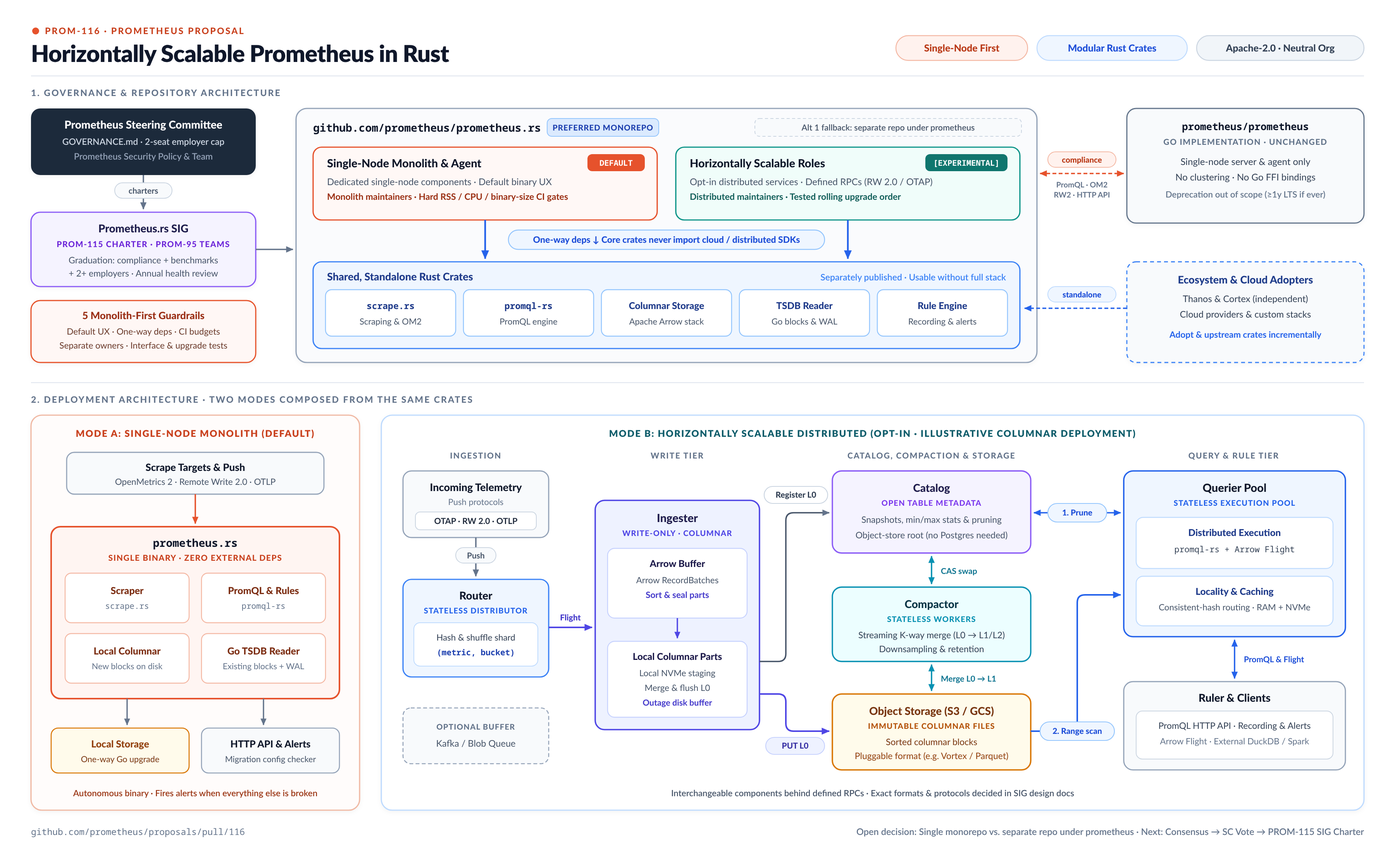
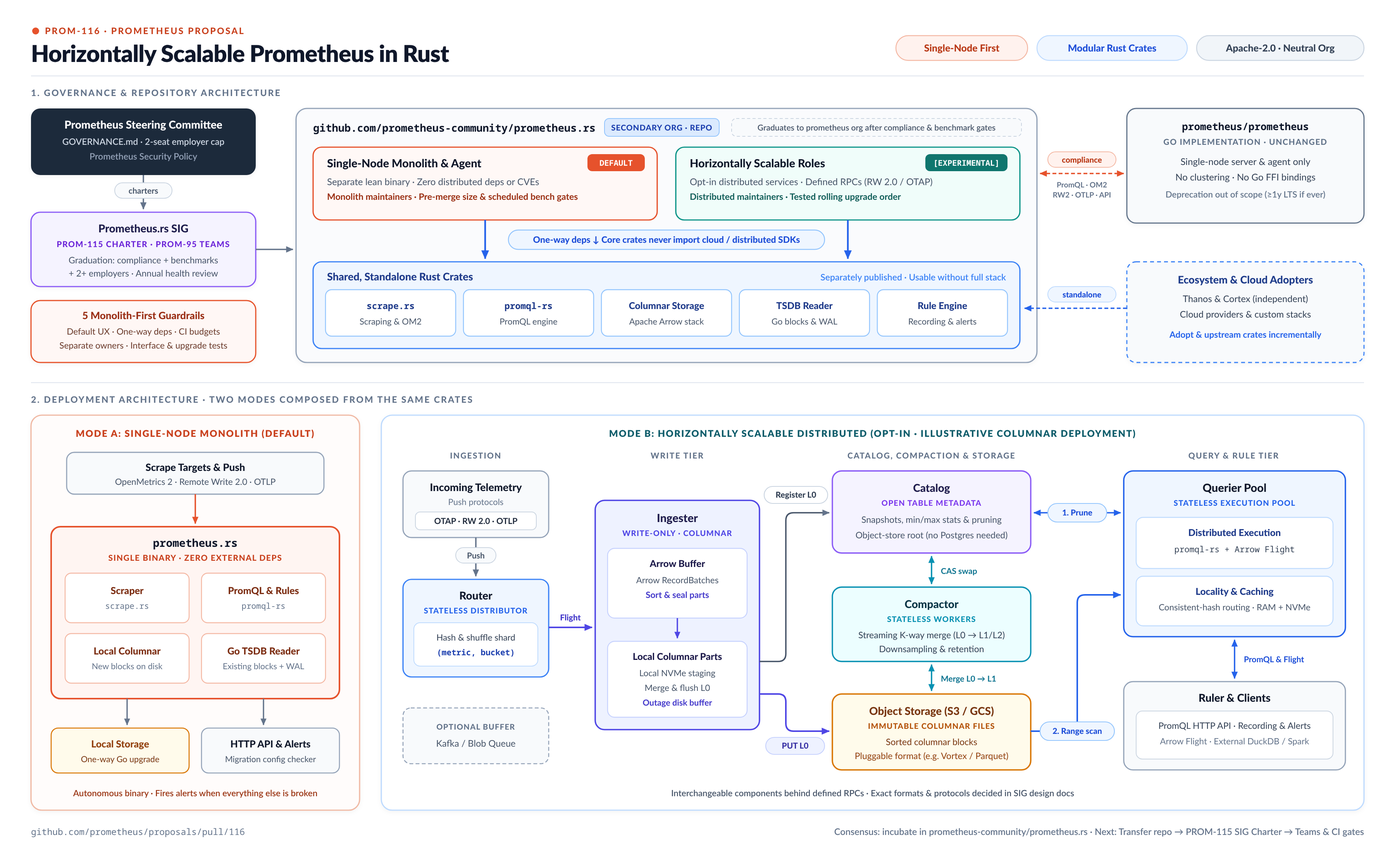
proposal: PROM-116: update destination to prometheus-community/prometheus.rs per DevSummit consensus

diff --git a/proposals/0116-horizontally-scalable-prometheus.md b/proposals/0116-horizontally-scalable-prometheus.md
@@ -21,7 +21,7 @@
   * [Prometheus Governance](https://github.com/prometheus/governance/blob/main/GOVERNANCE.md)
   * [Prometheus Community Roles](https://github.com/prometheus/governance/blob/main/ROLES.md)
 
-> TL;DR: Build the next generation of Prometheus in Rust from modular, reusable crates that compose both a drop-in single-node Prometheus replacement and horizontally scalable, distributed components under the Prometheus organization. Contributors from Prometheus, Thanos, Cortex, and (potentially) Mimir are rebuilding metrics storage and querying on an Apache Arrow columnar stack. Rather than splitting that work across competing organizations or inventing a fourth project, we propose expanding Prometheus scope to include horizontally scalable components under the Prometheus.rs SIG, with structural safeguards that keep single-node Prometheus a first-class priority. Depending on maintainer feedback, this work can live directly in the new Rust Prometheus repository as modular components or in a separate repository under the `prometheus` organization.
+> TL;DR: Build the next generation of Prometheus in Rust from modular, reusable crates that compose both a drop-in single-node Prometheus replacement and horizontally scalable, distributed components under Prometheus governance. Contributors from Prometheus, Thanos, Cortex, and (potentially) Mimir are rebuilding metrics storage and querying on an Apache Arrow columnar stack. Rather than splitting that work across competing organizations or inventing a fourth project, we allow Rust and columnar experiments with horizontally scalable scope in the secondary `prometheus-community` organization at [prometheus-community/prometheus.rs](https://github.com/prometheus-community/prometheus.rs), coordinated by the Prometheus.rs SIG, with structural safeguards that keep single-node Prometheus a first-class priority and protect primary `prometheus` organization stability expectations until graduation criteria are met.
 
 ![PROM-116 governance, repository, and deployment architecture overview](../assets/0116-horizontally-scalable-prometheus/architecture-overview.png)
 
@@ -36,9 +36,9 @@ Historically, Prometheus maintainers resisted bringing Thanos or Cortex style re
 That risk is real and we should not wave it away. Prometheus is still a single-binary effort first, and if the interests of single-node Prometheus and horizontally scalable Prometheus ever conflict, single-node Prometheus comes first. At the same time, the past decade has shown how costly ecosystem fragmentation is across separate projects. Four things have changed since that original scope boundary was formed:
 
 1. We can protect monolith priority with structure instead of an informal scope ban. Refreshed Prometheus governance gives us explicit SIG charters in [PROM-115](https://github.com/prometheus/proposals/pull/115), per-repository maintainer teams in [PROM-95](https://github.com/prometheus/proposals/blob/main/proposals/0095-teams-and-org-permissions.md), and clear contributor roles in [ROLES.md](https://github.com/prometheus/governance/blob/main/ROLES.md). We can back those up with hard benchmark gates, clean crate boundaries, and dedicated monolith maintainers.
-2. The `github.com/prometheus` organization stopped being only the monolith server binary a long time ago. Today the organization maintains client SDKs in six languages, exporters, Alertmanager, `promtool`, `--agent` mode, [prometheus/prometheus-mcp](https://github.com/prometheus/prometheus-mcp), protocol specifications, and experimental Rust projects in [prometheus/scrape.rs](https://github.com/prometheus/scrape.rs) and [prometheus/prometheus.rs](https://github.com/prometheus/prometheus.rs).
+2. Prometheus governance already spans far more than the single-node Go server binary. Across `github.com/prometheus` and `github.com/prometheus-community`, the project maintains client SDKs in six languages, exporters, Alertmanager, `promtool`, `--agent` mode, [prometheus/prometheus-mcp](https://github.com/prometheus/prometheus-mcp), protocol specifications, and experimental Rust projects such as [prometheus/scrape.rs](https://github.com/prometheus/scrape.rs) and [prometheus-community/promql-rs](https://github.com/prometheus-community/promql-rs).
 3. `prometheus/prometheus` already absorbs complexity for downstream horizontally scalable backends. The codebase carries methods and options that exist solely for Mimir, Cortex, or Thanos, such as [`DB.CompactSelectedSeries`](https://github.com/prometheus/prometheus/blob/2b311b9762bb5834a17374fcf45a8e5b2043293f/tsdb/db.go#L1940-L1963), [`LeveledCompactorOptions.EnableOverlappingCompaction`](https://github.com/prometheus/prometheus/blob/2b311b9762bb5834a17374fcf45a8e5b2043293f/tsdb/compact.go#L183-L185), [`AppendOptions.MetricFamilyName`](https://github.com/prometheus/prometheus/blob/2b311b9762bb5834a17374fcf45a8e5b2043293f/storage/interface_append.go#L51-L60), and the [`--storage.tsdb.delay-compact-file.path`](https://github.com/prometheus/prometheus/blob/2b311b9762bb5834a17374fcf45a8e5b2043293f/cmd/prometheus/main.go#L575-L576) flag. It also tracks scale limits above 100M series like the 64 GiB index cap in [#5868](https://github.com/prometheus/prometheus/issues/5868), and [`AGENTS.md`](https://github.com/prometheus/prometheus/blob/2b311b9762bb5834a17374fcf45a8e5b2043293f/AGENTS.md#L94-L99) explicitly instructs contributors to check Cortex, Thanos, and Mimir before changing exported Go APIs. We already pay the maintenance tax for distributed backends downstream without getting a shared architecture in return.
-4. In the AI era, reusable crates with clear boundaries matter more than glue code. Teams and coding agents can wire up custom binaries or integrations cheaply now, while well-scoped libraries with strict interfaces and thorough tests remain the hard part. Clear crate boundaries also give humans and coding agents small, isolated units to change and review safely. Focusing the [prometheus/prometheus.rs](https://github.com/prometheus/prometheus.rs) monorepo on reusable crates lets monolith and distributed modes share those core libraries without tangling their concerns.
+4. In the AI era, reusable crates with clear boundaries matter more than glue code. Teams and coding agents can wire up custom binaries or integrations cheaply now, while well-scoped libraries with strict interfaces and thorough tests remain the hard part. Clear crate boundaries also give humans and coding agents small, isolated units to change and review safely. Focusing the [prometheus-community/prometheus.rs](https://github.com/prometheus-community/prometheus.rs) monorepo on reusable crates lets monolith and distributed modes share those core libraries without tangling their concerns.
 
 ### Pitfalls of the current solution
 
@@ -49,9 +49,9 @@ That risk is real and we should not wave it away. Prometheus is still a single-b
 ## Goals
 
 * Build modular, reusable Rust crates that compose both a drop-in single-node Prometheus replacement and horizontally scalable, distributed components.
-* Officially bring horizontally scalable, distributed Prometheus into the scope of the Prometheus organization, giving contributors from Prometheus, Thanos, Cortex, and (potentially) Mimir one vendor-neutral home.
+* Officially bring horizontally scalable, distributed Prometheus experiments into Prometheus governance under the secondary `prometheus-community` organization ([prometheus-community/prometheus.rs](https://github.com/prometheus-community/prometheus.rs)), giving contributors from Prometheus, Thanos, Cortex, and (potentially) Mimir one vendor-neutral home.
 * Keep core Rust crates standalone, separately published, and usable on their own so teams running different backends can adopt pieces incrementally and contribute fixes back without adopting the full stack or rewriting Go Prometheus upfront.
-* Put concrete organizational and technical safeguards in place so single-node monolith Prometheus remains a first-class priority.
+* Put concrete organizational and technical safeguards in place so single-node monolith Prometheus remains a first-class priority, and protect primary `prometheus` organization stability expectations while Rust components incubate.
 
 ### Audience
 
@@ -69,7 +69,7 @@ Prometheus maintainers, Steering Committee members, Prometheus Members, and cont
 
 ### Scope expansion
 
-This proposal updates the scope of the Prometheus project under [prometheus/governance](https://github.com/prometheus/governance) to include horizontally scalable, distributed Prometheus as an official area of work, alongside single-node Prometheus, agent mode, Alertmanager, exporters, SDKs, and specifications.
+This proposal updates the scope of the Prometheus project under [prometheus/governance](https://github.com/prometheus/governance) to allow Rust and columnar experiments with horizontally scalable, distributed Prometheus scope under the secondary `prometheus-community` organization ([prometheus-community/prometheus.rs](https://github.com/prometheus-community/prometheus.rs)), alongside single-node Prometheus, agent mode, Alertmanager, exporters, SDKs, and specifications.
 
 Go `prometheus/prometheus` does not change its scope. New horizontally scalable work targets the experimental Rust and columnar ecosystem being developed in the Prometheus.rs SIG.
 
@@ -78,21 +78,23 @@ Go `prometheus/prometheus` does not change its scope. New horizontally scalable 
 The work operates under existing Prometheus governance rules in [GOVERNANCE.md](https://github.com/prometheus/governance/blob/main/GOVERNANCE.md) and [ROLES.md](https://github.com/prometheus/governance/blob/main/ROLES.md):
 
 * Once [PROM-115](https://github.com/prometheus/proposals/pull/115) is accepted, the Prometheus.rs SIG submits a formal SIG charter under `prometheus/governance/sigs/` covering shared Rust crates, the Rust monolith effort, and distributed components, with at least two SIG leads and a Steering Committee liaison.
-* Reusable Rust crates with clear boundaries are the primary focus of the [prometheus/prometheus.rs](https://github.com/prometheus/prometheus.rs) monorepo, alongside existing crates like [prometheus/scrape.rs](https://github.com/prometheus/scrape.rs) and [prometheus-community/promql-rs](https://github.com/prometheus-community/promql-rs). Keeping crates small, separately published, and usable on their own across areas like columnar storage and rule evaluation makes them easier for both humans and coding agents to maintain. Teams running different backends can adopt a single crate and contribute bug fixes or tests back without running the rest of the stack.
+* Reusable Rust crates with clear boundaries are the primary focus of the [prometheus-community/prometheus.rs](https://github.com/prometheus-community/prometheus.rs) monorepo, alongside existing crates like [prometheus/scrape.rs](https://github.com/prometheus/scrape.rs) and [prometheus-community/promql-rs](https://github.com/prometheus-community/promql-rs). Keeping crates small, separately published, and usable on their own across areas like columnar storage and rule evaluation makes them easier for both humans and coding agents to maintain. Teams running different backends can adopt a single crate and contribute bug fixes or tests back without running the rest of the stack.
 * Each repository follows [PROM-95](https://github.com/prometheus/proposals/blob/main/proposals/0095-teams-and-org-permissions.md) with its own `MAINTAINERS.md` and dedicated GitHub maintainer team.
 * Shared crates and distributed components follow the existing [Prometheus security policy](https://prometheus.io/docs/operating/security/). Vulnerability triage and fixes are owned by the Prometheus.rs SIG and repository maintainers, coordinating disclosure and advisories through the Prometheus security process.
-* New distributed components start clearly labeled as `[EXPERIMENTAL]` and graduate to stable status only after meeting conformance tests, operational benchmarks, and multi-company maintainership requirements.
+* New components start clearly labeled as `[EXPERIMENTAL]` in `prometheus-community/prometheus.rs` and graduate to stable status only after meeting conformance tests, operational benchmarks, and multi-company maintainership requirements.
 
-For repository and binary placement, we ask maintainers to weigh in on two options during review of this proposal:
+Following the November 26, 2026 DevSummit consensus, repository placement works as follows:
 
-1. Preferred option: bring horizontally scalable Prometheus directly into the [prometheus/prometheus.rs](https://github.com/prometheus/prometheus.rs) monorepo. The workspace keeps core functionality in independent, reusable crates and composes them into modular components for single-node Prometheus and opt-in distributed roles such as ingester, querier, compactor, ruler, and catalog. Single-node Prometheus will not be `-role=all` running every distributed service in one process. The monolith instead composes components suited for a single node, which can use separate implementations from the distributed ones while sharing the same core crates. Maintainers decide how many variants to keep. Keeping everything in one monorepo avoids inventing a new brand name, keeps cross-crate changes coordinated during early prototyping, and lets users scale from a single binary to distributed components with one mental model.
-2. Fallback option, detailed in Alternative 1 below: host horizontally scalable Prometheus in a separate repository and binary under the Prometheus organization, incubating in `prometheus-community` first if preferred, while sharing the same Rust crates and SIG.
+* Host the Rust and columnar monorepo in the secondary `prometheus-community` GitHub organization at [prometheus-community/prometheus.rs](https://github.com/prometheus-community/prometheus.rs) by transferring the existing experimental `prometheus/prometheus.rs` repository there.
+* Keep core functionality in independent, reusable crates within the workspace and compose them into modular components for single-node Prometheus and opt-in distributed roles such as ingester, querier, compactor, ruler, and catalog. Single-node Prometheus will not be `-role=all` running every distributed service in one process. The monolith instead composes components suited for a single node, which can use separate implementations from the distributed ones while sharing the same core crates. Maintainers decide how many variants to keep.
+* Incubating in `prometheus-community` avoids attaching primary `prometheus` organization stability guarantees to early experiments and guards against second-system risk, while still giving Prometheus, Thanos, Cortex, and Mimir contributors one neutral monorepo under Prometheus governance to align interfaces during early prototyping.
+* Any future promotion from `prometheus-community` into the primary `prometheus` organization requires meeting the conformance, performance, and multi-company maintainership graduation criteria and reaching a separate community decision.
 
 ### Safeguarding monolith priority
 
-Accepting horizontally scalable Prometheus into the Prometheus organization must not come at the expense of single-node Prometheus users. Whenever the interests of single-node Prometheus and horizontally scalable Prometheus conflict, single-node Prometheus comes first. We back that rule up with five concrete guardrails from day one:
+Accepting horizontally scalable Prometheus into Prometheus governance must not come at the expense of single-node Prometheus users. Whenever the interests of single-node Prometheus and horizontally scalable Prometheus conflict, single-node Prometheus comes first. We back that rule up with five concrete guardrails from day one:
 
-* Monolith remains the default UX and ships as its own lean binary target. Sharing the `prometheus/prometheus.rs` Cargo workspace does not mean linking distributed roles, coordination libraries, or cloud object-store SDKs into the default single-node release binary. The default single-node binary starts a self-contained server with local storage, zero external coordination services, and no distributed flags or distributed dependency CVEs compiled in. Distributed roles ship as separate binary targets (or opt-in builds), keeping multi-tenancy, object storage, and distributed routing out of single-node releases.
+* Monolith remains the default UX and ships as its own lean binary target. Sharing the `prometheus-community/prometheus.rs` Cargo workspace does not mean linking distributed roles, coordination libraries, or cloud object-store SDKs into the default single-node release binary. The default single-node binary starts a self-contained server with local storage, zero external coordination services, and no distributed flags or distributed dependency CVEs compiled in. Distributed roles ship as separate binary targets (or opt-in builds), keeping multi-tenancy, object storage, and distributed routing out of single-node releases.
 * Dependency direction is one-way. Core crates for scraping, PromQL, rule evaluation, and local storage cannot depend on distributed coordination, multi-tenant auth, or cloud object-store SDKs. Distributed layers depend downward on core crates, never the reverse.
 * Deterministic merge checks and scheduled benchmarks enforce monolith budgets. Pre-merge CI enforces deterministic gates including crate dependency direction and monolith binary-size limits. Scheduled benchmarks on dedicated hardware track single-node RSS, CPU, query latency, and cold-start time on realistic small and medium workloads alongside 100M-series runs, backed by a revert-or-fix policy when changes regress monolith footprint or startup simplicity.
 * Separate maintainership protects priorities. Monolith core and distributed components have distinct maintainer rosters or `CODEOWNERS` areas. Monolith maintainers hold approval authority over default behavior, single-node flags, and shared crate interfaces. At the organization level, the Steering Committee's 2-seat-per-employer limit in [GOVERNANCE.md](https://github.com/prometheus/governance/blob/main/GOVERNANCE.md#limitations-on-company-representation) prevents any single vendor from capturing project direction.
@@ -117,7 +119,7 @@ The numbers spell out the risk:
 * Cortex recovered PR volume after the 2022 Mimir fork, but depends on just six maintainers across three employers: AWS, Apple, and KakaoEnterprise.
 * Mimir sustains over 2,500 merged PRs a year because one vendor funds it directly, under AGPL-3.0 outside CNCF neutral governance.
 
-Bringing horizontally scalable Prometheus into the Prometheus organization does not magically fix open-source economics. If we repeat the same structure, we risk the same decay, except now under the Prometheus brand. We address this risk in four concrete ways:
+Bringing horizontally scalable Prometheus under Prometheus governance does not magically fix open-source economics. If we repeat the same structure, we risk the same decay, except now under the Prometheus brand. We address this risk in four concrete ways:
 
 * Pool fragmented engineering effort under one Apache-2.0 roof. Companies already funding metrics engineers across Thanos, Cortex, and internal Rust forks get one neutral codebase under the Prometheus Steering Committee's 2-seat-per-employer cap. Contributions count directly toward Prometheus Member and Maintainer status and CNCF DevStats, giving employers a stronger reason to fund upstream work than on smaller satellite projects.
 * Keep the core value in reusable crates so vendor incentives stay aligned. Thanos and Cortex struggled partly because operators had to adopt an entire microservices stack or fork it. When storage, scraping, PromQL, compaction, and rules live in well-scoped Apache-2.0 crates, cloud providers running custom internal control planes can still co-maintain those crates upstream instead of walking away into closed forks.
@@ -126,18 +128,18 @@ Bringing horizontally scalable Prometheus into the Prometheus organization does 
 
 ### Relationship with Go `prometheus/prometheus`
 
-Go `prometheus/prometheus` and `prometheus/prometheus.rs` will coexist as independent implementations under the Prometheus organization. Their relationship follows three rules:
+Go `prometheus/prometheus` and `prometheus-community/prometheus.rs` will coexist as independent implementations under Prometheus governance. Their relationship follows three rules:
 
-* Drop-in monolith goal, separate deprecation decision. Becoming a drop-in replacement for single-node Prometheus is the primary goal of the `prometheus/prometheus.rs` monolith across core scraping, alerting, PromQL, and HTTP APIs, with a clear upgrade path for existing configurations and data. Whether, when, and how that ever leads to deprecating Go `prometheus/prometheus` is out of scope here and belongs solely to `prometheus/prometheus` maintainers in a separate proposal. This proposal does not bind those terms. For user reassurance, consistent with Prometheus LTS norms, any future deprecation proposal would typically include at least a one-year security-fix window for a final LTS binary and Go packages, with Go packages potentially maintained longer.
+* Drop-in monolith goal, separate deprecation decision. Becoming a drop-in replacement for single-node Prometheus is the primary goal of the `prometheus-community/prometheus.rs` monolith across core scraping, alerting, PromQL, and HTTP APIs, with a clear upgrade path for existing configurations and data. Whether, when, and how that ever leads to deprecating Go `prometheus/prometheus` is out of scope here and belongs solely to `prometheus/prometheus` maintainers in a separate proposal. This proposal does not bind those terms. For user reassurance, consistent with Prometheus LTS norms, any future deprecation proposal would typically include at least a one-year security-fix window for a final LTS binary and Go packages, with Go packages potentially maintained longer.
 * No planned Go bindings for Rust crates. The SIG does not plan to expose the Rust crates to Go `prometheus/prometheus` via CGo or FFI due to the FFI boundary and build overhead. Nothing stops contributors from experimenting with bindings independently, but the SIG does not commit to maintaining them. Instead, components should stay interchangeable behind defined RPC boundaries, with internal component RPCs kept private at first. Where practical, components should reuse existing protocols such as Remote Write 2.0 or OpenTelemetry Arrow Protocol (OTAP) rather than inventing custom schemas.
-* Shared API and protocol compatibility, independent internals. `prometheus/prometheus.rs` maintainers do not have to backport internal storage, indexing, or execution optimizations to Go `prometheus/prometheus`. User-facing compatibility is scoped as follows:
+* Shared API and protocol compatibility, independent internals. `prometheus-community/prometheus.rs` maintainers do not have to backport internal storage, indexing, or execution optimizations to Go `prometheus/prometheus`. User-facing compatibility is scoped as follows:
   * Wire and ingestion protocols such as OpenMetrics 2 and Remote Write 2 continue to evolve through the shared [Prometheus specifications](https://prometheus.io/docs/specs/) process.
   * Changes or additions to PromQL or the Prometheus HTTP API go through `prometheus/proposals` with review from `prometheus/prometheus` maintainers rather than shipping in Rust alone.
-  * Tracking Go `prometheus/prometheus` features without fixed lag SLAs. New features can keep targeting Go `prometheus/prometheus` first. Experimental Go features behind feature flags, such as delta temporality or native metadata, do not require an immediate Rust port. Rather than enforcing a fixed release-delay SLA, `prometheus/prometheus.rs` will track all compatibility gaps and missing stable features openly during its alpha phase. Reaching drop-in status requires closing that gap list for stable features, and promoting new stable PromQL or HTTP API features is coordinated across Go and Rust maintainers.
+  * Tracking Go `prometheus/prometheus` features without fixed lag SLAs. New features can keep targeting Go `prometheus/prometheus` first. Experimental Go features behind feature flags, such as delta temporality or native metadata, do not require an immediate Rust port. Rather than enforcing a fixed release-delay SLA, `prometheus-community/prometheus.rs` will track all compatibility gaps and missing stable features openly during its alpha phase. Reaching drop-in status requires closing that gap list for stable features, and promoting new stable PromQL or HTTP API features is coordinated across Go and Rust maintainers.
   * Changes or additions to PromQL or the Prometheus HTTP API must be reflected in the related compliance suite.
   * Passing shared conformance and interoperability suites in [prometheus/compliance](https://github.com/prometheus/compliance) for PromQL, OpenMetrics, Remote Write, OTLP ingestion, and HTTP API contracts is a graduation requirement before components leave `[EXPERIMENTAL]`. The Prometheus.rs SIG owns adding and maintaining the Rust test targets and any missing HTTP API or OTLP interop tests in `prometheus/compliance`, reviewed jointly with `prometheus/compliance` and `prometheus/prometheus` maintainers.
-  * Configuration and CLI migration path instead of strict flag parity. Breaking changes in CLI flags, regex behavior, or legacy config options are acceptable, similar to Prometheus 3.0. Rather than mirroring every Go flag, `prometheus/prometheus.rs` aims to give most users an easy upgrade path through a migration guide and a tool that checks existing `prometheus.yml` configs and flags for incompatibilities.
-  * One-way data directory compatibility. Existing single-node data directories should keep working on upgrade, covering TSDB blocks and the WAL. At minimum, `prometheus/prometheus.rs` should ship a TSDB component that reads existing Go Prometheus data, without keeping Go TSDB as the default format for new blocks. Which format replaces TSDB for new blocks belongs in SIG design docs. Upgrades from Go Prometheus to `prometheus/prometheus.rs` will be one-way.
+  * Configuration and CLI migration path instead of strict flag parity. Breaking changes in CLI flags, regex behavior, or legacy config options are acceptable, similar to Prometheus 3.0. Rather than mirroring every Go flag, `prometheus-community/prometheus.rs` aims to give most users an easy upgrade path through a migration guide and a tool that checks existing `prometheus.yml` configs and flags for incompatibilities.
+  * One-way data directory compatibility. Existing single-node data directories should keep working on upgrade, covering TSDB blocks and the WAL. At minimum, `prometheus-community/prometheus.rs` should ship a TSDB component that reads existing Go Prometheus data, without keeping Go TSDB as the default format for new blocks. Which format replaces TSDB for new blocks belongs in SIG design docs. Upgrades from Go Prometheus to `prometheus-community/prometheus.rs` will be one-way.
   * Experimental or Rust-only extensions to the HTTP API without cross-implementation agreement stay behind explicit opt-in flags so default monolith behavior stays compatible with Go Prometheus.
 
 ### What this means for the ecosystem
@@ -154,31 +156,37 @@ Contributors across monolith and distributed Prometheus advance on the same [Pro
 
 ## Alternatives
 
-### 1. Separate repository and binary under the Prometheus organization
+### 1. Host directly in the primary `prometheus/prometheus.rs` repository from day one
 
-Bring horizontally scalable Prometheus into the Prometheus organization and the Prometheus.rs SIG, sharing the same Rust crates, but place the distributed binary in its own repository under `github.com/prometheus` or incubating in `github.com/prometheus-community`, similar to how Alertmanager lives in `prometheus/alertmanager`.
+Keep the monorepo inside the primary `github.com/prometheus` organization from the start instead of incubating under `github.com/prometheus-community`.
 
-This creates the cleanest boundary on binary size, CLI flags, release cadence, and issue trackers, with zero risk of distributed issues crowding the core Prometheus repository. The trade-off is that we must choose and build recognition around a new name, coordinate breaking crate changes across more repositories during early prototyping, and give up a single-binary path that transitions cleanly from monolith to microservices. If maintainers feel strongly that monolith and distributed modes should not share `prometheus/prometheus.rs`, this alternative is a direct fallback that still achieves the core goal of this proposal.
+Hosting directly under `github.com/prometheus` gives maximum visibility and avoids a later repository transfer if the project graduates. However, during review and the November 26, 2026 DevSummit, maintainers raised valid concerns that users associate repositories in the primary `prometheus` organization with strong production stability guarantees, even when labeled `[EXPERIMENTAL]`. Starting in `prometheus-community/prometheus.rs` sets clear expectations during early experimentation while preserving a direct graduation path once conformance and performance bars are met.
 
-### 2. Shared library crates under Prometheus, distributed binaries in another org
+### 2. Separate repository and binary for distributed roles
 
-Combine Alternatives 1 and 3. Prometheus expands scope only to govern reusable library crates such as `scrape.rs`, `promql-rs`, and columnar storage alongside the single-node monolith binary in `prometheus/prometheus.rs`. A separate organization such as `thanos-io/thanos.rs` composes those crates into distributed binaries under shared cross-org governance.
+Share the same Rust crates under the Prometheus.rs SIG, but host distributed components in a separate repository from the monolith binary under `github.com/prometheus-community` or `github.com/prometheus`, similar to how Alertmanager lives in `prometheus/alertmanager`.
 
-This keeps existing Prometheus and Thanos branding and SEO intact, keeps `prometheus/prometheus.rs` strictly single-binary, and lets operators adopt or contribute to shared Rust crates without committing to one distributed binary. The trade-off is that governance stays split across multiple CNCF organizations instead of simplifying the CNCF landscape under one umbrella. Running cross-org governance adds overhead, preserves historical Thanos and Cortex boundaries, and makes it harder for Cortex, Grafana Mimir, and Prometheus contributors to converge in one neutral home.
+This creates the cleanest boundary on release cadence and issue trackers, with zero risk of distributed issues crowding the monolith repository. The trade-off is that we must choose and build recognition around a new name and coordinate breaking crate changes across more repositories during early prototyping. Keeping monolith and distributed targets in the `prometheus-community/prometheus.rs` monorepo (with separate binary targets and one-way crate dependencies) keeps interfaces aligned while still protecting the single-node build.
 
-### 3. Build under the Thanos organization as Thanos 2.0
+### 3. Shared library crates under Prometheus, distributed binaries in another org
 
-Keep horizontally scalable Prometheus out of the Prometheus organization and host the new Rust and columnar backend under `github.com/thanos-io`, which is already a CNCF Incubating project dedicated to horizontally scalable Prometheus.
+Prometheus expands scope only to govern reusable library crates such as `scrape.rs`, `promql-rs`, and columnar storage alongside the single-node monolith binary. A separate organization such as `thanos-io/thanos.rs` composes those crates into distributed binaries under shared cross-org governance.
+
+This keeps existing Prometheus and Thanos branding and SEO intact, keeps `prometheus.rs` strictly single-binary, and lets operators adopt or contribute to shared Rust crates without committing to one distributed binary. The trade-off is that governance stays split across multiple CNCF organizations instead of simplifying the CNCF landscape under one umbrella. Running cross-org governance adds overhead, preserves historical Thanos and Cortex boundaries, and makes it harder for Cortex, Grafana Mimir, and Prometheus contributors to converge in one neutral home.
+
+### 4. Build under the Thanos organization as Thanos 2.0
+
+Keep horizontally scalable Prometheus out of Prometheus governance and host the new Rust and columnar backend under `github.com/thanos-io`, which is already a CNCF Incubating project dedicated to horizontally scalable Prometheus.
 
 Reusing Thanos avoids expanding Prometheus scope and builds on an established brand. However, it makes unifying Cortex and Mimir contributors harder under one predecessor's name and governance. Thanos OSS maintenance has also slowed down, while Prometheus now has an active Steering Committee and the Prometheus.rs SIG already building shared Rust crates. Putting the distributed layer under `thanos-io` would split contributors working on `prometheus/scrape.rs`, `promql-rs`, and the distributed backend across two separate CNCF governance bodies.
 
-### 4. Create a new organization such as CorThanos or CorThaMir
+### 5. Create a new organization such as CorThanos or CorThaMir
 
 Start a fresh GitHub organization and pursue a new CNCF Sandbox project for the combined next-generation distributed system.
 
 A new organization starts with zero historical baggage from Prometheus, Thanos, Cortex, or Mimir. In practice, standing up new governance, security processes, CNCF onboarding, CI infrastructure, and brand trust takes months of non-engineering work and splits contributor credit away from Prometheus. Without strong institutional backing, a fresh org risks becoming a fourth fragmented project rather than uniting the existing three.
 
-### 5. Keep horizontally scalable Prometheus out of scope
+### 6. Keep horizontally scalable Prometheus out of scope
 
 Maintain the status quo: keep Prometheus strictly focused on single-node server, agent, and shared libraries, and leave horizontal scalability to downstream projects.
 
@@ -186,8 +194,8 @@ This avoids any scope change and preserves the simple historical boundary that P
 
 ## Action Plan
 
-* [ ] Reach consensus on this proposal in `prometheus/proposals`, including agreement on single-repo modes in `prometheus/prometheus.rs` versus a separate repository under the Prometheus organization.
-* [ ] Hold a Steering Committee vote under [GOVERNANCE.md](https://github.com/prometheus/governance/blob/main/GOVERNANCE.md#decision-process) to formally include horizontally scalable Prometheus in project scope.
+* [X] Reach consensus on this proposal in `prometheus/proposals` and the DevSummit to allow Rust and columnar experiments with horizontally scalable scope under `prometheus-community/prometheus.rs`.
+* [ ] Transfer `prometheus/prometheus.rs` to `prometheus-community/prometheus.rs`.
 * [ ] Coordinate with Thanos and Cortex maintainers and the CNCF regarding project boundaries, messaging, and any naming implications.
-* [ ] Submit the Prometheus.rs SIG charter PR under `prometheus/governance/sigs/` once [PROM-115](https://github.com/prometheus/proposals/pull/115) is merged, documenting monolith-priority rules, graduation and annual health-review or archival criteria for distributed components, repository scope, leads, and Steering Committee liaison.
-* [ ] Configure repository teams, `MAINTAINERS.md` per [PROM-95](https://github.com/prometheus/proposals/blob/main/proposals/0095-teams-and-org-permissions.md), `CONTRIBUTING.md` documenting how newcomers join and contribute, crate dependency checks, and monolith benchmark gates before accepting distributed component code.
+* [ ] Submit the Prometheus.rs SIG charter PR under `prometheus/governance/sigs/` once [PROM-115](https://github.com/prometheus/proposals/pull/115) is merged, documenting monolith-priority rules, graduation and annual health-review or archival criteria, repository scope, leads, and Steering Committee liaison.
+* [ ] Configure repository teams, `MAINTAINERS.md` per [PROM-95](https://github.com/prometheus/proposals/blob/main/proposals/0095-teams-and-org-permissions.md), `CONTRIBUTING.md` documenting how newcomers join and contribute, crate dependency and binary-size checks, and scheduled monolith benchmark gates before accepting distributed component code.
